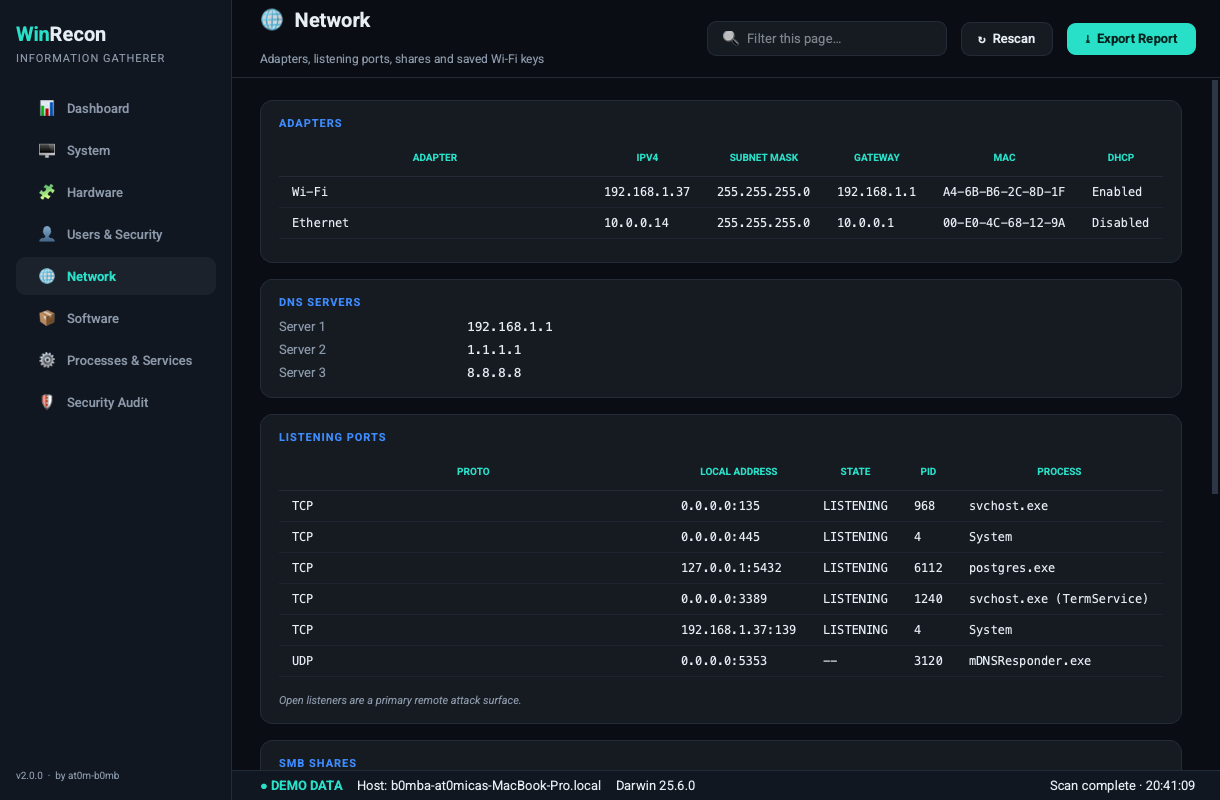
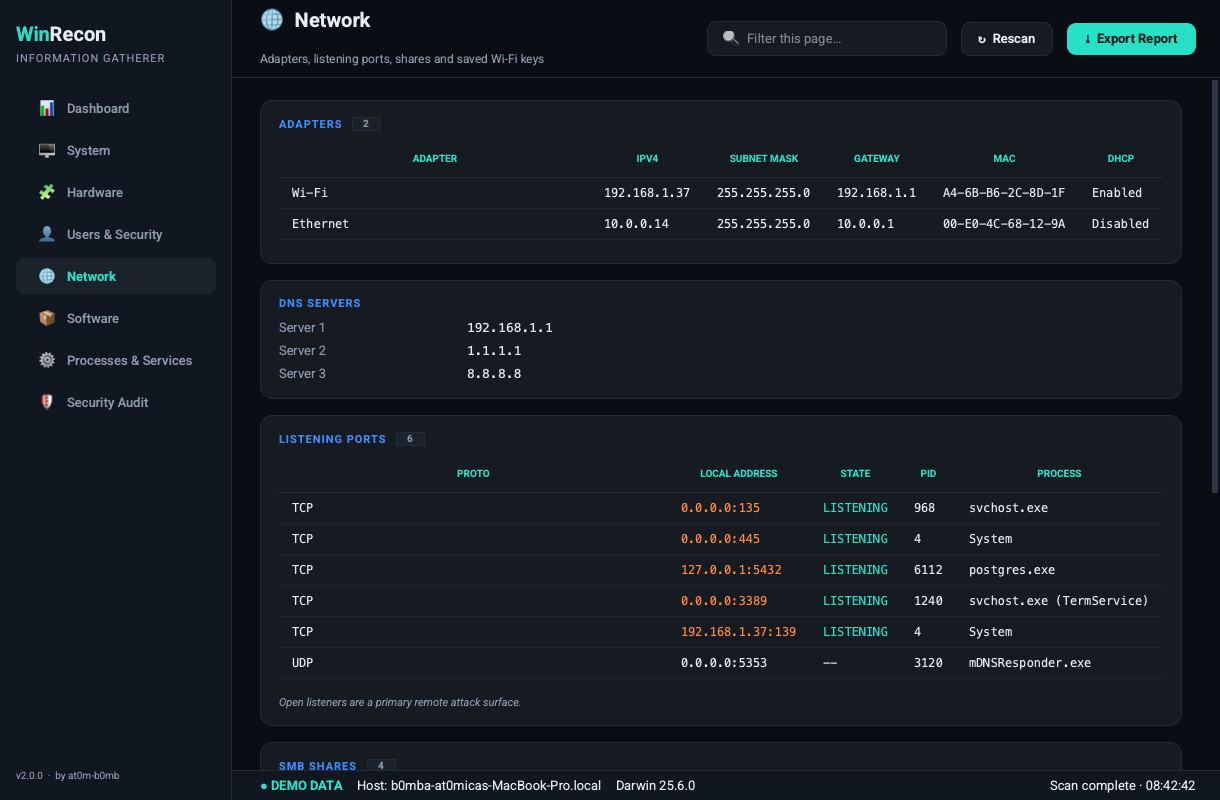
Polish UI: semantic risk colour-coding, risk-posture bar and card count badges
- Colour-code security-meaningful values in every table and the exported
  HTML: admin accounts, risky/open listening ports, recovered Wi-Fi keys,
  service state, and defensive-posture settings (green = good, amber = risk).
- Add a stacked severity 'Risk Posture' bar with a risk-level badge to the
  Dashboard and the top of the Security Audit page.
- Show row/finding count badges on card headers.
- Refresh all eight screenshots to match.

diff --git a/wig/gui/widgets.py b/wig/gui/widgets.py
@@ -2,7 +2,8 @@
 
 from __future__ import annotations
 
-from PyQt6.QtCore import Qt
+from PyQt6.QtCore import QRectF, Qt
+from PyQt6.QtGui import QColor, QPainter, QPainterPath
 from PyQt6.QtWidgets import (
     QFrame, QGridLayout, QHBoxLayout, QHeaderView, QLabel, QPushButton,
     QSizePolicy, QTableWidget, QTableWidgetItem, QVBoxLayout, QWidget,
@@ -64,9 +65,21 @@ class Card(QFrame):
         self.lay.setContentsMargins(18, 16, 18, 16)
         self.lay.setSpacing(10)
 
+        # Title row: label + optional count badge.
+        head = QHBoxLayout()
+        head.setSpacing(9)
         title = QLabel(section.title.upper())
         title.setObjectName("CardTitle")
-        self.lay.addWidget(title)
+        head.addWidget(title)
+        count = (len(section.table_rows) if section.kind == "table"
+                 else len(section.findings) if section.kind == "findings"
+                 else 0)
+        if count:
+            badge = QLabel(str(count))
+            badge.setObjectName("CountBadge")
+            head.addWidget(badge)
+        head.addStretch()
+        self.lay.addLayout(head)
 
         if section.kind == "keyvalue":
             self._build_keyvalue(section)
@@ -97,6 +110,9 @@ class Card(QFrame):
             val.setWordWrap(True)
             val.setTextInteractionFlags(
                 Qt.TextInteractionFlag.TextSelectableByMouse)
+            color = theme.semantic_color(section.title, k, v)
+            if color:
+                val.setStyleSheet(f"color:{color}; font-weight:600;")
             grid.addWidget(key, r, 0)
             grid.addWidget(val, r, 1)
             self._rows_widgets.append(((key, val), f"{k} {v}".lower()))
@@ -116,6 +132,10 @@ class Card(QFrame):
         for r, row in enumerate(section.table_rows):
             for c, cell in enumerate(row):
                 item = QTableWidgetItem(cell)
+                head = section.headers[c] if c < len(section.headers) else ""
+                color = theme.semantic_color(section.title, head, cell)
+                if color:
+                    item.setForeground(QColor(color))
                 table.setItem(r, c, item)
         header = table.horizontalHeader()
         for c in range(len(section.headers)):
@@ -211,3 +231,86 @@ class Card(QFrame):
                 for w in widgets:
                     w.setVisible(match or text in self.section.title.lower())
         return any_match
+
+
+class SeverityBar(QWidget):
+    """A rounded, stacked proportional bar of finding severities."""
+
+    def __init__(self, segments):
+        super().__init__()
+        # segments: list of (label, color, count)
+        self.segments = [s for s in segments if s[2] > 0]
+        self.setFixedHeight(12)
+        self.setSizePolicy(QSizePolicy.Policy.Expanding, QSizePolicy.Policy.Fixed)
+
+    def paintEvent(self, _event):
+        p = QPainter(self)
+        p.setRenderHint(QPainter.RenderHint.Antialiasing)
+        w, h = self.width(), self.height()
+        r = h / 2
+        track = QPainterPath()
+        track.addRoundedRect(QRectF(0, 0, w, h), r, r)
+        p.fillPath(track, QColor(theme.BORDER))
+        total = sum(c for _, _, c in self.segments)
+        if not total:
+            return
+        p.setClipPath(track)
+        x = 0.0
+        gap = 2.0
+        for _label, color, count in self.segments:
+            seg = w * count / total
+            p.fillRect(QRectF(x, 0, max(seg - gap, 1), h), QColor(color))
+            x += seg
+
+
+def risk_summary_card(counts: dict, total: int) -> QFrame:
+    """Card with a risk-level badge, a severity bar and a legend."""
+    from ..model import Severity
+
+    n_c = counts.get(Severity.CRITICAL, 0)
+    n_h = counts.get(Severity.HIGH, 0)
+    n_m = counts.get(Severity.MEDIUM, 0)
+    label, color = theme.risk_level(n_c, n_h, n_m)
+
+    card = QFrame()
+    card.setObjectName("Card")
+    lay = QVBoxLayout(card)
+    lay.setContentsMargins(18, 16, 18, 16)
+    lay.setSpacing(12)
+
+    head = QHBoxLayout()
+    head.setSpacing(10)
+    title = QLabel("RISK POSTURE")
+    title.setObjectName("CardTitle")
+    head.addWidget(title)
+    head.addStretch()
+    badge = QLabel(label + " RISK")
+    badge.setObjectName("RiskBadge")
+    badge.setStyleSheet(
+        f"background:{color}22; color:{color}; border:1px solid {color}66;")
+    head.addWidget(badge)
+    lay.addLayout(head)
+
+    order = [
+        ("Critical", theme.SEVERITY["Critical"], n_c),
+        ("High", theme.SEVERITY["High"], n_h),
+        ("Medium", theme.SEVERITY["Medium"], n_m),
+        ("Low", theme.SEVERITY["Low"], counts.get(Severity.LOW, 0)),
+        ("Good", theme.GOOD, counts.get(Severity.GOOD, 0)
+         + counts.get(Severity.INFO, 0)),
+    ]
+    lay.addWidget(SeverityBar(order))
+
+    legend = QHBoxLayout()
+    legend.setSpacing(16)
+    for name, col, cnt in order:
+        item = QLabel(f"<span style='color:{col}'>●</span> "
+                      f"<b style='color:{theme.TEXT}'>{cnt}</b> {name}")
+        item.setObjectName("LegendItem")
+        legend.addWidget(item)
+    legend.addStretch()
+    total_lbl = QLabel(f"{total} findings")
+    total_lbl.setObjectName("LegendItem")
+    legend.addWidget(total_lbl)
+    lay.addLayout(legend)
+    return card

diff --git a/wig/gui/theme.py b/wig/gui/theme.py
@@ -22,6 +22,84 @@ SEVERITY = {
     "Info": "#8b98a9",
     "Good": "#28e0c8",
 }
+GOOD = "#39d98a"
+
+# Ports that materially widen the remote attack surface.
+RISKY_PORTS = {"21", "23", "135", "137", "138", "139", "445",
+               "1433", "3306", "3389", "5432", "5985", "5986"}
+
+
+def semantic_color(section_title: str, header: str, value: str):
+    """Return a highlight colour for a security-meaningful cell, else ``None``.
+
+    Lives in the view layer so collectors stay presentation-agnostic. Matching
+    is scoped by section + column so the same word ("Enabled", "Disabled")
+    reads correctly in different contexts.
+    """
+    t = (section_title or "").lower()
+    h = (header or "").lower()
+    v = (value or "").strip()
+    vl = v.lower()
+    if not vl:
+        return None
+
+    if "posture" in t:
+        if h in ("uac (enablelua)", "windows defender", "real-time protection",
+                 "cloud protection"):
+            return GOOD if vl in ("enabled", "on", "running", "true") \
+                else SEVERITY["High"]
+        if h == "tamper protection":
+            return GOOD if vl in ("on", "true", "enabled") else SEVERITY["Medium"]
+        if "firewall" in h:
+            return SEVERITY["Medium"] if "off" in vl else GOOD
+        if "bitlocker" in h:
+            return GOOD if vl in ("on", "enabled") else SEVERITY["High"]
+        if h == "rdp":
+            return SEVERITY["Medium"] if "enabled" in vl else GOOD
+        if h == "smbv1":
+            return SEVERITY["High"] if "enabled" in vl else GOOD
+        if vl in ("on", "enabled", "running"):
+            return GOOD
+        if vl in ("off", "disabled", "stopped", "not encrypted"):
+            return SEVERITY["Medium"]
+        return None
+
+    if "local accounts" in t:
+        if h == "admin" and vl == "yes":
+            return SEVERITY["High"]
+        if h == "enabled" and vl == "no":
+            return MUTED
+        return None
+
+    if "listening ports" in t:
+        if h == "state" and vl == "listening":
+            return ACCENT
+        if h == "local address":
+            port = v.rsplit(":", 1)[-1]
+            if port in RISKY_PORTS:
+                return SEVERITY["High"]
+        return None
+
+    if t == "services" and h == "state":
+        return GOOD if vl == "running" else MUTED
+
+    if "wi-fi" in t and "key" in h:
+        if v and vl not in ("(open)", "(not stored / no admin)"):
+            return ACCENT
+        return None
+
+    return None
+
+
+def risk_level(n_critical: int, n_high: int, n_medium: int):
+    """Map finding counts to a (label, colour) risk badge."""
+    if n_critical:
+        return "CRITICAL", SEVERITY["Critical"]
+    if n_high:
+        return "ELEVATED", SEVERITY["High"]
+    if n_medium:
+        return "MODERATE", SEVERITY["Medium"]
+    return "LOW", GOOD
 
 
 def stylesheet() -> str:
@@ -77,6 +155,12 @@ def stylesheet() -> str:
     #Card {{ background: {CARD}; border: 1px solid {BORDER}; border-radius: 12px; }}
     #CardTitle {{ color: {ACCENT2}; font-size: 11px; font-weight: 700;
                   letter-spacing: 1px; }}
+    #CountBadge {{ color: {MUTED}; background: {CARD_HI}; border: 1px solid {BORDER};
+                   border-radius: 8px; padding: 0 8px; font-size: 10px;
+                   font-weight: 700; }}
+    #RiskBadge {{ font-size: 12px; font-weight: 800; border-radius: 9px;
+                  padding: 3px 12px; letter-spacing: .5px; }}
+    #LegendItem {{ color: {MUTED}; font-size: 11px; }}
     #CardNote {{ color: {MUTED}; font-size: 11px; font-style: italic; }}
     #KvKey {{ color: {MUTED}; }}
     #KvVal {{ color: {TEXT}; font-family: ui-monospace, Menlo, Consolas, monospace; }}

diff --git a/wig/report.py b/wig/report.py
@@ -99,6 +99,49 @@ _SEV_COLOR = {
     Severity.INFO: "#8b98a9",
     Severity.GOOD: "#28e0c8",
 }
+_GOOD = "#39d98a"
+_ACCENT = "#28e0c8"
+_HIGH = "#ff8a3d"
+_MED = "#ffd23d"
+_RISKY_PORTS = {"21", "23", "135", "137", "138", "139", "445",
+                "1433", "3306", "3389", "5432", "5985", "5986"}
+
+
+def _cell_color(section_title: str, header: str, value: str):
+    """Highlight colour for a security-meaningful cell (mirrors the GUI)."""
+    t, h, vl = (section_title or "").lower(), (header or "").lower(), \
+        (value or "").strip().lower()
+    if not vl:
+        return None
+    if "posture" in t:
+        if "tamper" in h:
+            return _GOOD if vl in ("on", "true", "enabled") else _MED
+        if "firewall" in h:
+            return _MED if "off" in vl else _GOOD
+        if "bitlocker" in h:
+            return _GOOD if vl in ("on", "enabled") else _HIGH
+        if h == "rdp":
+            return _MED if "enabled" in vl else _GOOD
+        if h == "smbv1":
+            return _HIGH if "enabled" in vl else _GOOD
+        if vl in ("on", "enabled", "running", "true"):
+            return _GOOD
+        if vl in ("off", "disabled", "stopped", "not encrypted", "false"):
+            return _MED
+        return None
+    if "local accounts" in t and h == "admin" and vl == "yes":
+        return _HIGH
+    if "listening ports" in t:
+        if h == "state" and vl == "listening":
+            return _ACCENT
+        if h == "local address" and value.rsplit(":", 1)[-1] in _RISKY_PORTS:
+            return _HIGH
+    if t == "services" and h == "state" and vl == "running":
+        return _GOOD
+    if "wi-fi" in t and "key" in h and vl not in ("(open)",
+                                                  "(not stored / no admin)"):
+        return _ACCENT
+    return None
 
 
 def to_html(categories: List[Category], demo: bool) -> str:
@@ -121,7 +164,10 @@ def to_html(categories: List[Category], demo: bool) -> str:
             if s.kind == "keyvalue":
                 body.append('<table class="kv">')
                 for k, v in s.rows:
-                    body.append(f'<tr><th>{e(k)}</th><td>{e(v)}</td></tr>')
+                    col = _cell_color(s.title, k, v)
+                    style = f' style="color:{col};font-weight:600"' if col else ''
+                    body.append(f'<tr><th>{e(k)}</th>'
+                                f'<td{style}>{e(v)}</td></tr>')
                 body.append('</table>')
             elif s.kind == "table":
                 body.append('<div class="scroll"><table class="grid"><thead><tr>')
@@ -129,8 +175,13 @@ def to_html(categories: List[Category], demo: bool) -> str:
                     body.append(f'<th>{e(h)}</th>')
                 body.append('</tr></thead><tbody>')
                 for row in s.table_rows:
-                    body.append('<tr>' + ''.join(
-                        f'<td>{e(c)}</td>' for c in row) + '</tr>')
+                    cells = []
+                    for i, c in enumerate(row):
+                        hd = s.headers[i] if i < len(s.headers) else ""
+                        col = _cell_color(s.title, hd, c)
+                        style = f' style="color:{col}"' if col else ''
+                        cells.append(f'<td{style}>{e(c)}</td>')
+                    body.append('<tr>' + ''.join(cells) + '</tr>')
                 body.append('</tbody></table></div>')
             elif s.kind == "findings":
                 for f in s.findings:

diff --git a/wig/gui/main_window.py b/wig/gui/main_window.py
@@ -20,7 +20,7 @@ from ..collectors.base import is_demo
 from ..model import Category
 from . import theme
 from .dashboard import build_dashboard
-from .widgets import Card, NavButton
+from .widgets import Card, NavButton, risk_summary_card
 
 
 class CollectWorker(QThread):
@@ -246,6 +246,17 @@ class MainWindow(QMainWindow):
         v.setContentsMargins(28, 22, 28, 28)
         v.setSpacing(16)
         cards = []
+
+        # Security Audit leads with a risk-posture summary.
+        if cat.key == "audit":
+            findings = next((s.findings for s in cat.sections
+                             if s.kind == "findings"), [])
+            if findings:
+                counts = {}
+                for f in findings:
+                    counts[f.severity] = counts.get(f.severity, 0) + 1
+                v.addWidget(risk_summary_card(counts, len(findings)))
+
         for section in cat.sections:
             if section.is_empty:
                 continue

diff --git a/wig/gui/dashboard.py b/wig/gui/dashboard.py
@@ -11,7 +11,7 @@ from PyQt6.QtWidgets import (
 
 from ..model import Category, Severity
 from . import theme
-from .widgets import Card, StatTile
+from .widgets import Card, StatTile, risk_summary_card
 
 
 def _find(categories, key):
@@ -90,6 +90,13 @@ def build_dashboard(categories: List[Category], host: str, demo: bool) -> QWidge
     for i, t in enumerate(tiles):
         grid.addWidget(t, i // 4, i % 4)
     outer.addLayout(grid)
+
+    # Risk posture strip (severity breakdown)
+    if findings:
+        counts = {}
+        for f in findings:
+            counts[f.severity] = counts.get(f.severity, 0) + 1
+        outer.addWidget(risk_summary_card(counts, len(findings)))
 
     # Two-column: top findings + quick facts
     cols = QHBoxLayout()

diff --git a/README.md b/README.md
@@ -53,7 +53,8 @@ defender (or an attacker already on the box) would look at first.
 
 Plus:
 
-- 📊 **Dashboard** with live stat tiles and the top security findings at a glance.
+- 📊 **Dashboard** with live stat tiles, a **risk-posture severity bar**, and the top findings at a glance.
+- 🎨 **Color-coded risk highlighting** — admin accounts, open/risky ports, recovered Wi-Fi keys and weak settings stand out instantly (in the app *and* the exported HTML).
 - 🔎 **Per-page live search** to filter any table or field instantly.
 - 🧵 **Threaded scanning** so the UI never freezes while collecting.
 - ⤓ **One-click export** to a self-contained **HTML** report, **JSON**, or **TXT**.
